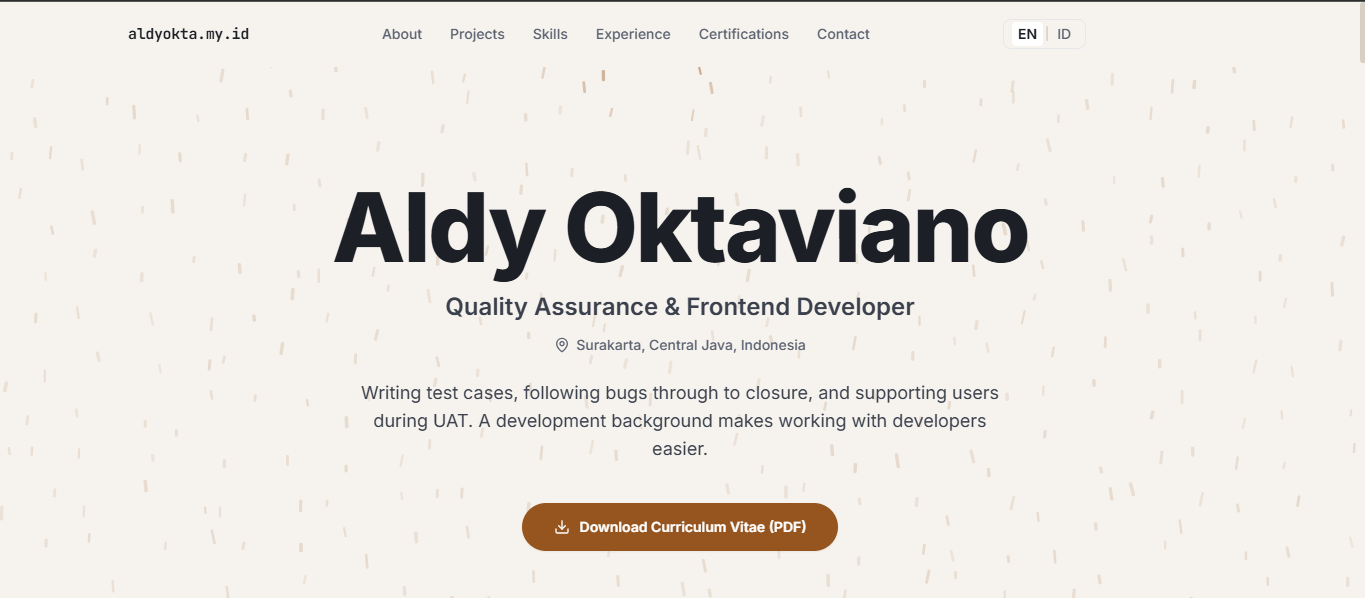
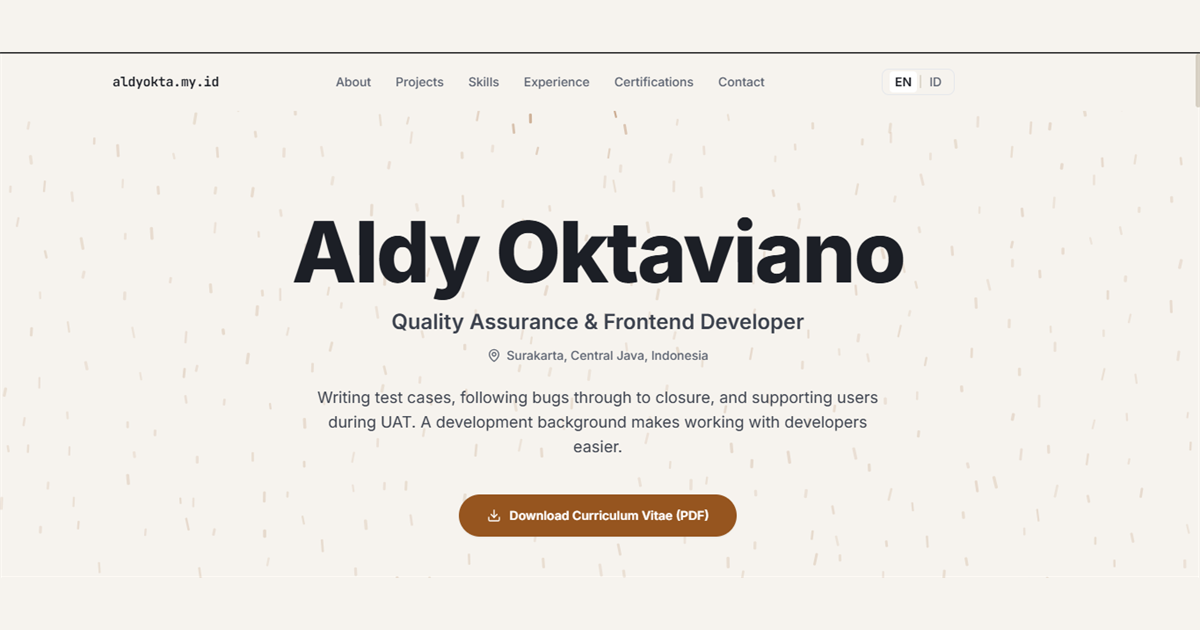
fix(og): sesuaikan dimensi og-image ke 1200x630 standar WhatsApp dan tambahkan og:image:secure_url

diff --git a/index.html b/index.html
@@ -19,9 +19,11 @@
   <meta property="og:title" content="Aldy Oktaviano — Quality Assurance &amp; Frontend Developer" />
   <meta property="og:description"
     content="Portofolio resmi Aldy Oktaviano: Quality Assurance Tester dan Frontend Developer." />
-  <meta property="og:image" content="https://aldyokta.my.id/og-image.png" />
-  <meta property="og:image:width" content="1365" />
-  <meta property="og:image:height" content="598" />
+  <meta property="og:image" content="https://aldyokta.my.id/og-image.png?v=3" />
+  <meta property="og:image:secure_url" content="https://aldyokta.my.id/og-image.png?v=3" />
+  <meta property="og:image:type" content="image/png" />
+  <meta property="og:image:width" content="1200" />
+  <meta property="og:image:height" content="630" />
   <meta property="og:image:alt" content="Aldy Oktaviano — Quality Assurance &amp; Frontend Developer Portfolio" />
   <meta property="og:site_name" content="Aldy Oktaviano Portfolio" />
   <meta property="og:locale" content="en_US" />
@@ -32,7 +34,7 @@
   <meta name="twitter:title" content="Aldy Oktaviano — Quality Assurance &amp; Frontend Developer" />
   <meta name="twitter:description"
     content="Portofolio resmi Aldy Oktaviano: Quality Assurance Tester dan Frontend Developer." />
-  <meta name="twitter:image" content="https://aldyokta.my.id/og-image.png" />
+  <meta name="twitter:image" content="https://aldyokta.my.id/og-image.png?v=3" />
   <link rel="preconnect" href="https://fonts.googleapis.com">
   <link rel="preconnect" href="https://fonts.gstatic.com" crossorigin>
   <link
